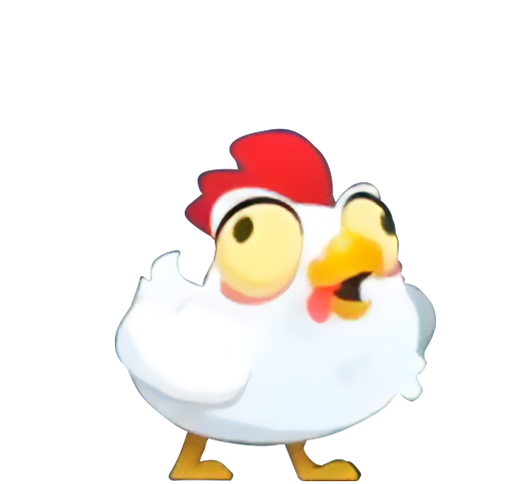
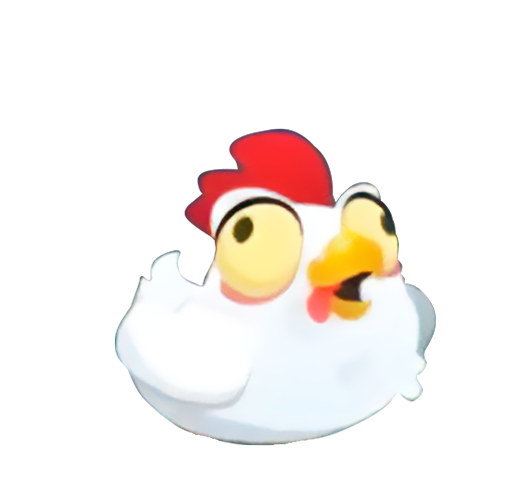
anim chicken

Changed region(s): [[0.5191, 0.8988, 0.7023, 1.0], [0.3053, 0.8988, 0.458, 1.0]]

diff --git a/assets/js/fire-sparks-animation.js b/assets/js/fire-sparks-animation.js
@@ -14,7 +14,7 @@ export class FireSparksAnimation {
         this.maxSparks = 800;
         this.sparkFrequency = 3.5; // Maximum sparks per frame
         this.startTime = null;
-        this.speedMultiplier = 2.0; // Start with 2x speed
+        this.speedMultiplier = 2.67; // Start with 2.67x speed (4.0 / 1.5)
     }
 
     /**
@@ -79,7 +79,7 @@ export class FireSparksAnimation {
         
         // Random direction from center
         const angle = Math.random() * Math.PI * 2;
-        const baseSpeed = Math.random() * 2.5 + 1.5; // Base speed: 1.5-4
+        const baseSpeed = Math.random() * 3.75 + 2.25; // Base speed: 2.25-6 (halved)
         const speed = baseSpeed * this.speedMultiplier;
         
         // Start at center (will be invisible until halfway)
@@ -100,6 +100,11 @@ export class FireSparksAnimation {
         spark.maxLife = 10.0; // Long life to reach screen edges
         spark.size = Math.random() * 3 + 3; // Fixed size 3-6px
         spark.brightness = Math.random() * 0.3 + 0.7; // 0.7-1.0
+        
+        // Trail properties
+        spark.trail = spark.trail || []; // Keep existing trail or create new
+        spark.trail.length = 0; // Clear trail for reused sparks
+        spark.maxTrailLength = 8; // Number of trail points
         
         // Flickering properties - 40% chance to be flickering
         spark.isFlickering = Math.random() < 0.4;
@@ -157,7 +162,23 @@ export class FireSparksAnimation {
         // White spark with yellow glow
         const color = 0xFFFFFF; // White core
         
-        // Draw white spark using modern PixiJS v8 API
+        // Draw trail first (behind the spark)
+        if (spark.trail && spark.trail.length > 1) {
+            for (let t = 0; t < spark.trail.length - 1; t++) {
+                const point = spark.trail[t];
+                
+                // Calculate trail alpha (fades from back to front)
+                const trailProgress = t / (spark.trail.length - 1); // 0 to 1 (oldest to newest)
+                const trailAlpha = alpha * trailProgress * 0.4; // Max 40% of spark alpha
+                const trailSize = size * (0.3 + trailProgress * 0.7); // 30% to 100% of spark size
+                
+                // Draw trail point
+                spark.circle(point.x - spark.x, point.y - spark.y, trailSize);
+                spark.fill({ color: color, alpha: trailAlpha });
+            }
+        }
+        
+        // Draw main spark on top
         spark.circle(0, 0, size);
         spark.fill({ color: color, alpha: alpha });
     }
@@ -169,15 +190,15 @@ export class FireSparksAnimation {
         // Update speed multiplier based on elapsed time
         const elapsedTime = (Date.now() - this.startTime) / 1000; // in seconds
         if (elapsedTime < 2.0) {
-            // First 2 seconds: 2x speed
-            this.speedMultiplier = 2.0;
+            // First 2 seconds: 2.67x speed (was 4x, now 1.5x slower)
+            this.speedMultiplier = 2.67;
         } else if (elapsedTime < 3.0) {
-            // Seconds 2-3: smooth transition from 2x to 1x
+            // Seconds 2-3: smooth transition from 2.67x to 1.5x
             const transitionProgress = elapsedTime - 2.0; // 0.0 to 1.0
-            this.speedMultiplier = 2.0 - transitionProgress; // 2.0 to 1.0
+            this.speedMultiplier = 2.67 - (1.17 * transitionProgress); // 2.67 to 1.5
         } else {
-            // After 3 seconds: normal speed
-            this.speedMultiplier = 1.0;
+            // After 3 seconds: 1.5x speed (was 3x, now halved)
+            this.speedMultiplier = 1.5;
         }
         
         // Create new sparks
@@ -190,6 +211,12 @@ export class FireSparksAnimation {
         // Update existing sparks
         for (let i = this.sparks.length - 1; i >= 0; i--) {
             const spark = this.sparks[i];
+            
+            // Save current position to trail before moving
+            spark.trail.push({ x: spark.x, y: spark.y });
+            if (spark.trail.length > spark.maxTrailLength) {
+                spark.trail.shift(); // Remove oldest trail point
+            }
             
             // Move spark
             spark.x += spark.vx;

diff --git a/assets/js/chicken-idle-animation.js b/assets/js/chicken-idle-animation.js
@@ -1,12 +1,14 @@
 export class ChickenIdleAnimation {
   constructor() {
     this.element = null
+    this.part3Element = null
     this.scaleX = 1
     this.isAnimating = false
   }
   
   init(element, scaleX = 1) {
     this.element = element
+    this.part3Element = document.querySelector('.chicken-part3')
     this.scaleX = scaleX
   }
   
@@ -50,6 +52,11 @@ export class ChickenIdleAnimation {
           setTimeout(() => doJump(), 60) // Small pause between jumps
         })
       })
+      
+      // Animate part3 upward during jump
+      if (this.part3Element) {
+        this.animatePart3Jump()
+      }
     }
     
     doJump()
@@ -95,5 +102,52 @@ export class ChickenIdleAnimation {
   
   easeOutQuad(t) {
     return 1 - (1 - t) * (1 - t)
+  }
+  
+  easeOutCubic(t) {
+    return 1 - Math.pow(1 - t, 3)
+  }
+  
+  easeInCubic(t) {
+    return t * t * t
+  }
+  
+  animatePart3Jump() {
+    if (!this.part3Element) return
+    
+    const startTime = Date.now()
+    const jumpDuration = 180 // Total jump duration (up and down)
+    const maxHeight = -15 // Maximum upward movement
+    
+    const animate = () => {
+      const elapsed = Date.now() - startTime
+      const progress = Math.min(elapsed / jumpDuration, 1)
+      
+      // Create a bounce curve: up then down
+      let yOffset = 0
+      if (progress <= 0.5) {
+        // Going up (first half)
+        const upProgress = progress * 2 // 0 to 1
+        yOffset = maxHeight * this.easeOutQuad(upProgress)
+      } else {
+        // Coming down (second half)
+        const downProgress = (progress - 0.5) * 2 // 0 to 1
+        yOffset = maxHeight * (1 - this.easeOutQuad(downProgress))
+      }
+      
+      // Apply transform
+      const currentTransform = this.part3Element.style.transform || ''
+      const newTransform = currentTransform.includes('translateY')
+        ? currentTransform.replace(/translateY\([^)]*\)/, `translateY(${yOffset}px)`)
+        : currentTransform + ` translateY(${yOffset}px)`
+      
+      this.part3Element.style.transform = newTransform
+      
+      if (progress < 1) {
+        requestAnimationFrame(animate)
+      }
+    }
+    
+    requestAnimationFrame(animate)
   }
 }

diff --git a/index.html b/index.html
@@ -41,7 +41,10 @@
             
             <div class="box2">
               <div class="chicken-container">
-                <img src="/assets/images/common/chicken-part1.png" alt="Chicken Part 1" class="chicken-part1">
+                <div class="chicken-parts-13">
+                  <img src="/assets/images/common/chicken-part3.png" alt="Chicken Part 3" class="chicken-part3">
+                  <img src="/assets/images/common/chicken-part1.png" alt="Chicken Part 1" class="chicken-part1">
+                </div>
                 <img src="/assets/images/common/chicken-part2.png" alt="Chicken Part 2" class="chicken-part2">
               </div>
               <div class="spin-container">
